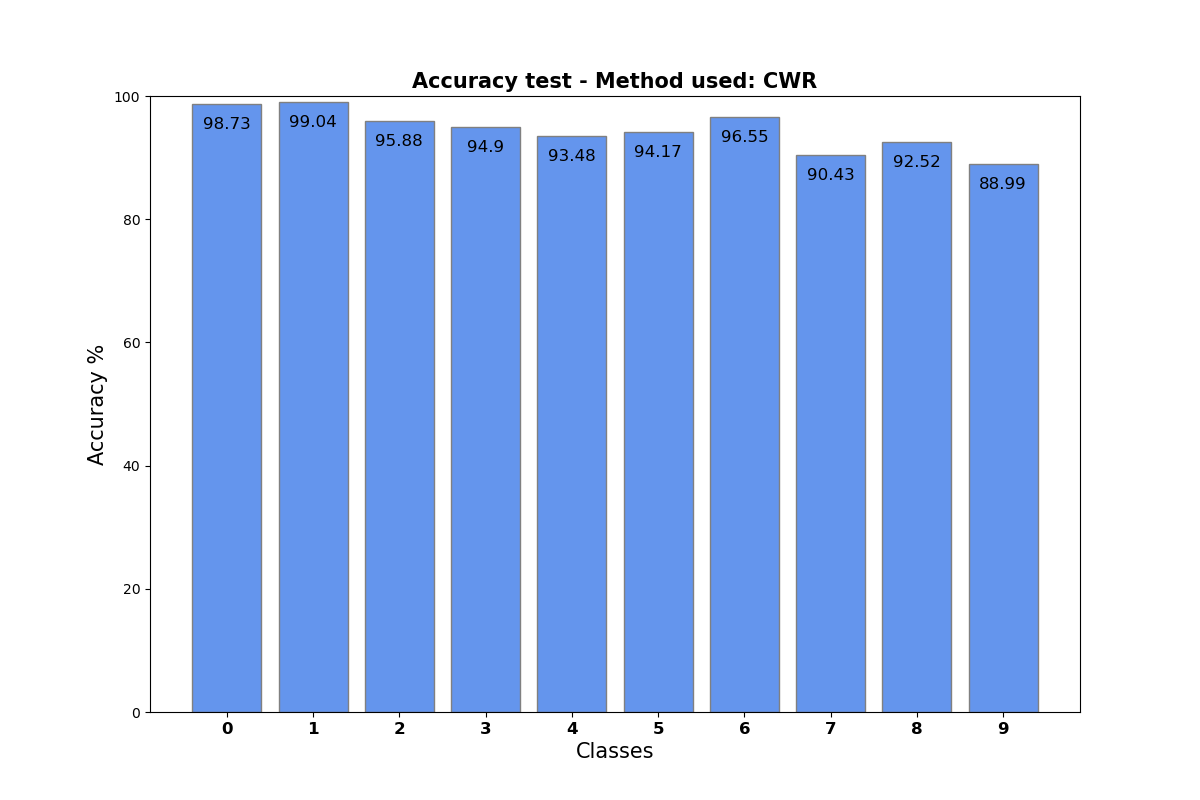
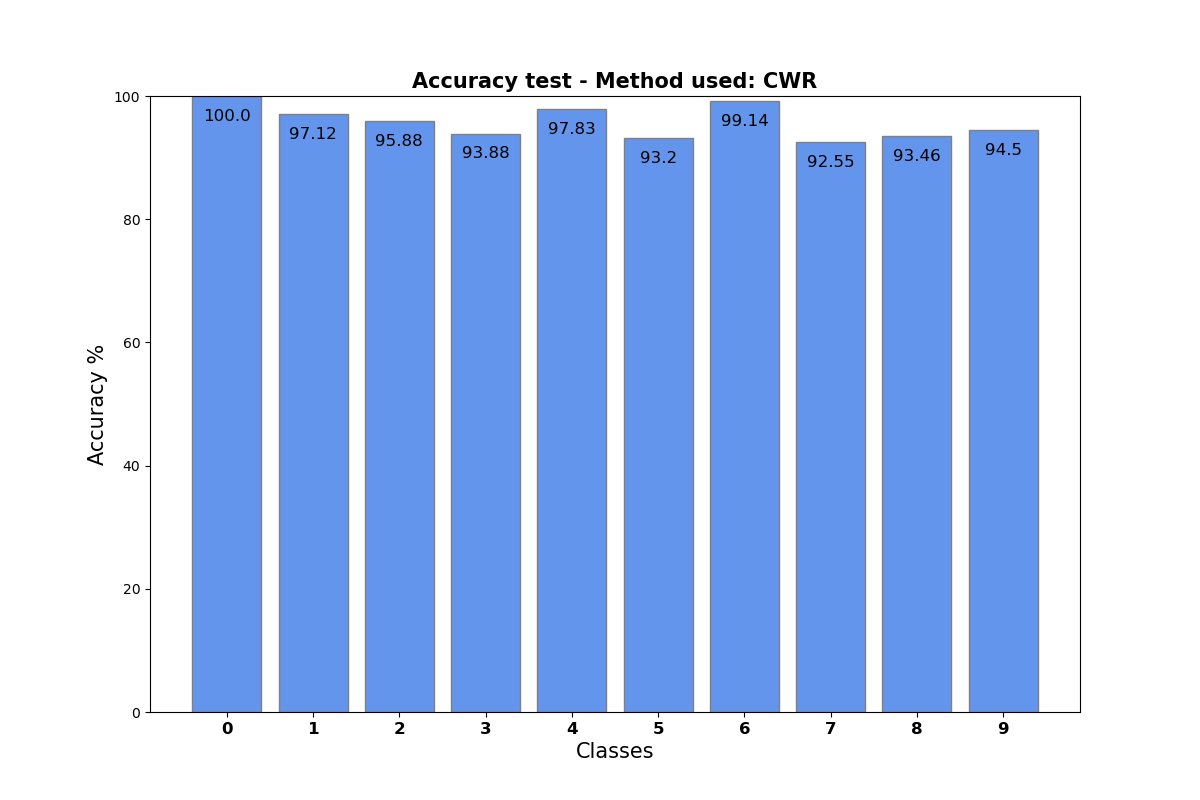
Fixato CWR su Openmv

Changed region(s): [[0.37, 0.125, 0.8633, 0.25], [0.1542, 0.0938, 0.3083, 0.1875]]

diff --git a/OpenMV_application/Scripts/OpenMV_scripts/OpenMV_myLib.py b/OpenMV_application/Scripts/OpenMV_scripts/OpenMV_myLib.py
@@ -11,7 +11,7 @@ class LastLayer(object):
         self.method = 0
         self.W = 6
         self.offset = 6
-        self.H = 160
+        self.H = 512
         self.counter = 0
 
         self.label     = ['0','1','2','3','4','5']
@@ -473,26 +473,30 @@ def train_CWR(OL_layer, true_label, out_frozen):
             # Update biases
             OL_layer.biases_new[i-offset,0]  = OL_layer.biases_new[i-offset,0] - cost[i,0]
 
-    # BATCH FINISHED
+    # BATCH FINISHED - FIXARE VA TROPPO LENTO
     if((OL_layer.counter % OL_layer.batch_size == 0) and (OL_layer.counter != 0)):
 
         for i in range(0, OL_layer.W):
             if(OL_layer.found_lett[i,0] != 0):
 
                 if(i<offset):
-                    for j in range(0, OL_layer.H):
-                        OL_layer.weights[i,j] = ((OL_layer.weights[i,j]*OL_layer.found_lett[i,0])+OL_layer.weights_2[i,j])/(OL_layer.found_lett[i,0]+1)
-                        OL_layer.weights_2[i,j] = OL_layer.weights[i,j]
-                    OL_layer.biases[i,0] = ((OL_layer.biases[i,0]*OL_layer.found_lett[i,0])+OL_layer.biases_2[i,0])/(OL_layer.found_lett[i,0]+1)
+
+                    OL_layer.weights[i,:]   = (OL_layer.weights[i,:]*OL_layer.found_lett[i,0]+OL_layer.weights_2[i,:])/(OL_layer.found_lett[i,0]+1)
+                    OL_layer.weights_2[i,:] = OL_layer.weights[i,:]
+
+                    OL_layer.biases[i,0]   = ((OL_layer.biases[i,0]*OL_layer.found_lett[i,0])+OL_layer.biases_2[i,0])/(OL_layer.found_lett[i,0]+1)
                     OL_layer.biases_2[i,0] = OL_layer.biases[i,0]
                 else:
-                    for j in range(0, OL_layer.H):
-                        OL_layer.weights_new[i-offset,j] = ((OL_layer.weights_new[i-offset,j]*OL_layer.found_lett[i])+OL_layer.weights_new_2[i-offset,j])/(OL_layer.found_lett[i,0]+1)
-                        OL_layer.weights_new_2[i-offset,j] = OL_layer.weights_new[i-offset,j]
-                    OL_layer.biases_new[i-offset,0] = ((OL_layer.biases_new[i-offset,0]*OL_layer.found_lett[i,0])+OL_layer.biases_new_2[i-offset,0])/(OL_layer.found_lett[i,0]+1)
+
+                    OL_layer.weights_new[i-offset,:]   = (OL_layer.weights_new[i-offset,:]*OL_layer.found_lett[i,0]+OL_layer.weights_new_2[i-offset,:])/(OL_layer.found_lett[i,0]+1)
+                    OL_layer.weights_new_2[i-offset,:] = OL_layer.weights_new[i-offset,:]
+
+                    OL_layer.biases_new[i-offset,0]   = ((OL_layer.biases_new[i-offset,0]*OL_layer.found_lett[i,0])+OL_layer.biases_new_2[i-offset,0])/(OL_layer.found_lett[i,0]+1)
                     OL_layer.biases_new_2[i-offset,0] = OL_layer.biases_new[i-offset,0]
 
             OL_layer.found_lett[i,0] = 0
+
+
 
     return prediction
 

diff --git a/OpenMV_application/Scripts/OpenMV_scripts/helloworld_1.py b/OpenMV_application/Scripts/OpenMV_scripts/helloworld_1.py
@@ -1,0 +1,52 @@
+# Hello World Example
+#
+# Welcome to the OpenMV IDE! Click on the green run arrow button below to run the script!
+
+import sensor, image, time
+import ulab
+from ulab import numpy as np
+
+
+
+
+sensor.reset()                      # Reset and initialize the sensor.
+sensor.set_pixformat(sensor.RGB565) # Set pixel format to RGB565 (or GRAYSCALE)
+sensor.set_framesize(sensor.QVGA)   # Set frame size to QVGA (320x240)
+sensor.skip_frames(time = 2000)     # Wait for settings take effect.
+clock = time.clock()                # Create a clock object to track the FPS.
+
+
+A = np.zeros((2,4))
+B = np.zeros((1,1))
+
+temp = np.zeros((2,4))
+temp2 = np.zeros((2,4))
+
+A[0,0] = 8
+A[0,1] = 10
+A[0,2] = 12
+A[0,3] = 14
+
+temp2[0,0] = 8
+temp2[0,1] = 10
+temp2[0,2] = 12
+temp2[0,3] = 14
+
+B[0,0] = 2
+
+print('A*B')
+temp[0,:] = A[0,:]*B[0,0]
+print(temp)
+print('A*B+temp')
+temp[0,:] = temp[0,:] + temp2[0,:]
+
+print(temp)
+print('A')
+print(A)
+"""
+while(True):
+    clock.tick()                    # Update the FPS clock.
+    img = sensor.snapshot()         # Take a picture and return the image.
+    print(clock.fps())              # Note: OpenMV Cam runs about half as fast when connected
+                                    # to the IDE. The FPS should increase once disconnected.
+"""

diff --git a/OpenMV_application/Scripts/OpenMV_scripts/OpenMV_OL_training_sync.py b/OpenMV_application/Scripts/OpenMV_scripts/OpenMV_OL_training_sync.py
@@ -32,6 +32,8 @@ myLib.load_biases(OL_layer)             # Read from the txt file the weights and
 myLib.load_weights(OL_layer)            # Read from the txt file the biases and save them
 
 
+
+
 # TRAINING METHOD SELECTION **********************************
 # 0 -> no training, just inference
 # 1 -> OL               WORKS - perfoms good
@@ -42,6 +44,9 @@ myLib.load_weights(OL_layer)            # Read from the txt file the biases and 
 # 6 -> OLV2 mini batch  WORKS - performs not so good - batch 32 a bit better
 # 7 -> LWF mini batch   WORKS - perfoms good - careful around label 30 camera reboots easily , dunno why
 OL_layer.method = 4
+
+
+
 
 myLib.allocateMemory(OL_layer)
 

diff --git a/OpenMV_application/Scripts/OpenMV_scripts/OpenMV_OL_training_debug.py b/OpenMV_application/Scripts/OpenMV_scripts/OpenMV_OL_training_debug.py
@@ -41,11 +41,17 @@ myLib.load_labels(OL_layer)
 # 5 -> OL mini batch
 # 6 -> OLV2 mini batch
 # 7 -> LWF mini batch
-OL_layer.method = 1
+OL_layer.method = 4
 myLib.allocateMemory(OL_layer)
 
+# DEFINE TRAINING PARAMS
+OL_layer.l_rate      = 0.005
+OL_layer.batch_size  = 8
+OL_layer.train_limit = 90#4000     # after how many prediction start testing
+OL_layer.counter     = 0        # just a reset
+midpoint_type = 1
+
 current_label ='X'
-OL_layer.train_limit = 5      # after how many prediction start to save inside confusion matrix
 
 # START THE INFINITE LOOP
 t=0

diff --git a/OpenMV_application/Scripts/run_create_barPlots_Latex.py b/OpenMV_application/Scripts/run_create_barPlots_Latex.py
@@ -25,7 +25,7 @@ plot_y_dim =  10
 
 ROOT_PATH = os.path.dirname(os.path.abspath(__file__))
 sys.path.insert(0, ROOT_PATH + '/lib')
-TXT_PATH = ROOT_PATH + '\\Results\\Results_Model_v2\\Results_backup\\'
+TXT_PATH = ROOT_PATH + '\\Results\\Results_backup\\'
 SAVE_PLOT_PATH = ROOT_PATH + '\\Results\\'
 
 save_name = ['1_OL', '5_OL batch', '2_OL V2', '6_OLV2_batch', '3_LWF', '7_LWF_batch', '4_CWR']
